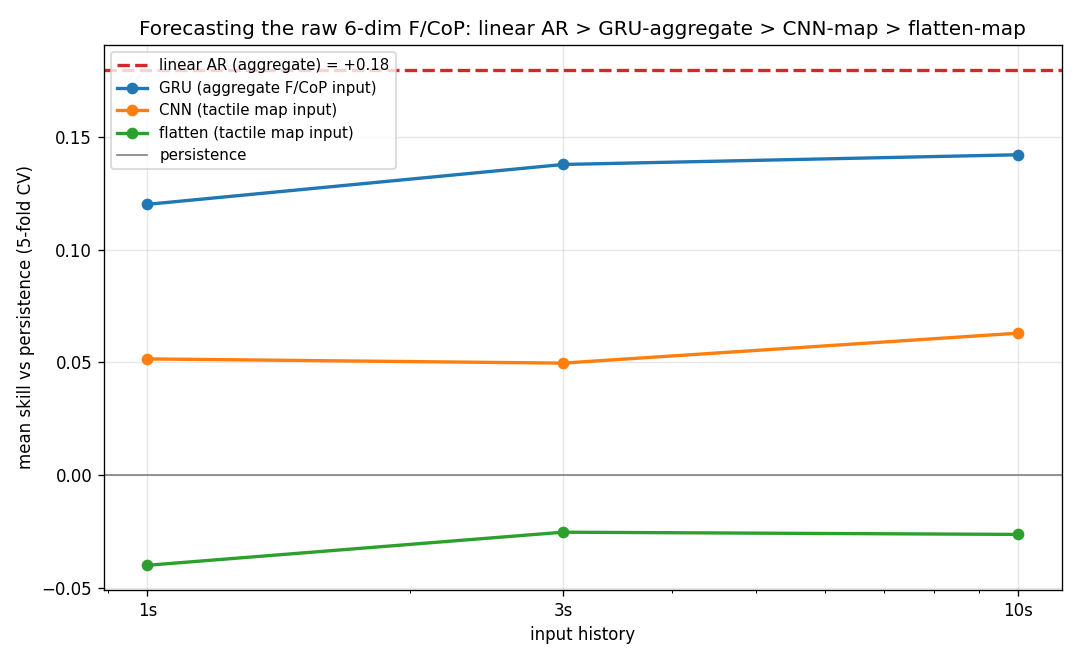
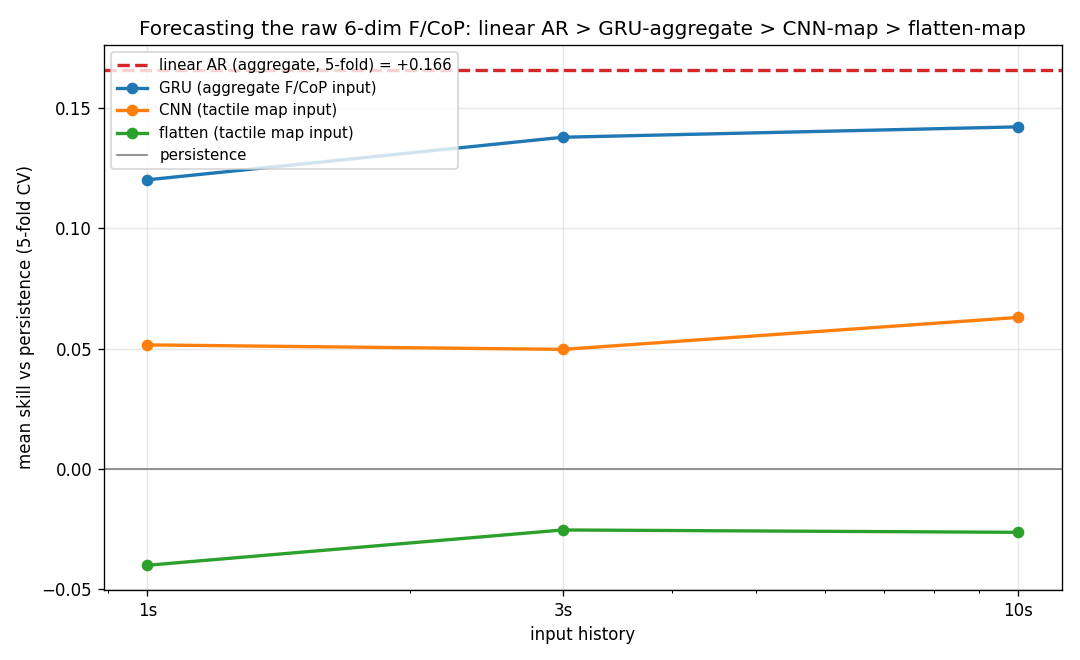
Rigor: match AR to the GRU's 5-fold CV (AR +0.166 vs frozen-split +0.18); ranking unchanged, now apples-to-apples

diff --git a/scripts/plot_forecaster_comparison.py b/scripts/plot_forecaster_comparison.py
@@ -12,7 +12,8 @@ from collections import defaultdict
 
 import numpy as np
 
-AR_SKILL = 0.180          # harness linear AR, raw 6-dim target (history-agnostic)
+AR_SKILL = 0.166          # linear AR on the SAME 5-fold CV as the GRU (raw 6-dim; history-agnostic).
+#                           (The frozen-split harness AR was +0.180; +0.166 is the protocol-matched value.)
 
 
 def load(path):
@@ -37,7 +38,7 @@ def main():
         return [np.mean(data.get((enc, h), [np.nan])) for h in hists]
 
     fig, ax = plt.subplots(figsize=(9, 5.5))
-    ax.axhline(AR_SKILL, color="C3", ls="--", lw=2, label="linear AR (aggregate) = +0.18")
+    ax.axhline(AR_SKILL, color="C3", ls="--", lw=2, label=f"linear AR (aggregate, 5-fold) = +{AR_SKILL:.3f}")
     for enc, c, lbl in [("aggregate", "C0", "GRU (aggregate F/CoP input)"),
                         ("cnn", "C1", "CNN (tactile map input)"),
                         ("flatten", "C2", "flatten (tactile map input)")]:

diff --git a/SESSION_LOG.md b/SESSION_LOG.md
@@ -1754,3 +1754,14 @@ CONCLUSIONS:
 Coverage ~0.94-0.95 (calibrated) for all learned models. Fast-component probGRU (action_dynamics)
 kept separate/untouched. Artifacts: docs/forecaster_comparison.png, tactile_map_cv_results_aggregate.csv,
 scripts/plot_forecaster_comparison.py.
+
+### RIGOR CHECK (2026-07-23) — GRU-aggregate vs linear AR: same target/input, protocol now matched
+Verified: BOTH use load_target = RAW 6-dim both-hands F/CoP (NOT the fast/high-pass component;
+dataset.py:43-52). GRU-aggregate input=past of load_target, target=future of load_target
+(train.py:143-144, AggWindows); AR operates on the same load_target. Same data (Slice+Peel, 75 recs),
+same autoregressive input representation. THE ONE MISMATCH: the four-way plot's AR (+0.180) came from
+the FROZEN split (harness fit_and_forecast on splits.json, test 15), while the GRU used 5-FOLD CV.
+FIXED: ran AR on the IDENTICAL 5-fold folds (same recs order, same seed=0 fold_of, same val carve) ->
+AR mean skill = +0.166 (per-fold 0.15-0.19, stable). So protocol-matched AR = +0.166 (vs +0.180 frozen).
+Ranking UNCHANGED and now fully apples-to-apples: AR +0.166 > GRU-aggregate +0.12-0.14 > CNN-map
++0.05-0.06 > flatten-map -0.03 > persistence 0. Updated docs/forecaster_comparison.png (AR line 0.166).